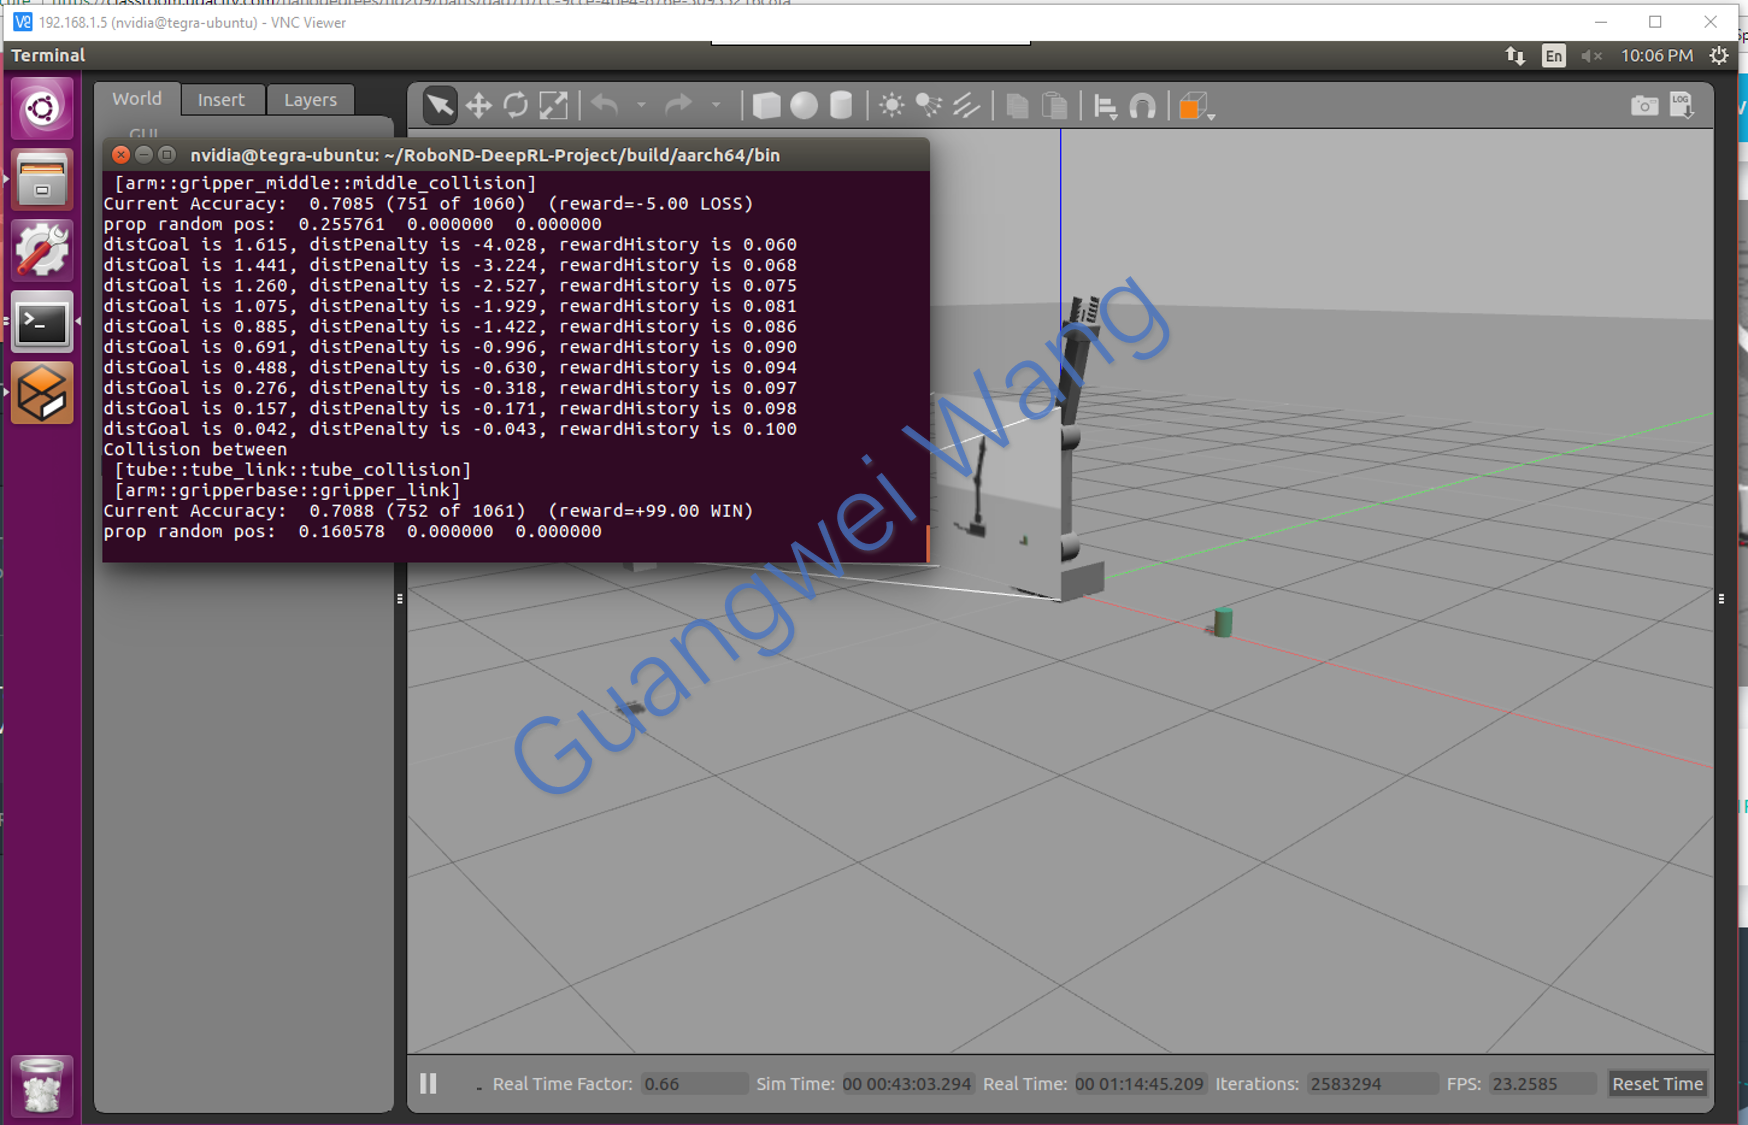
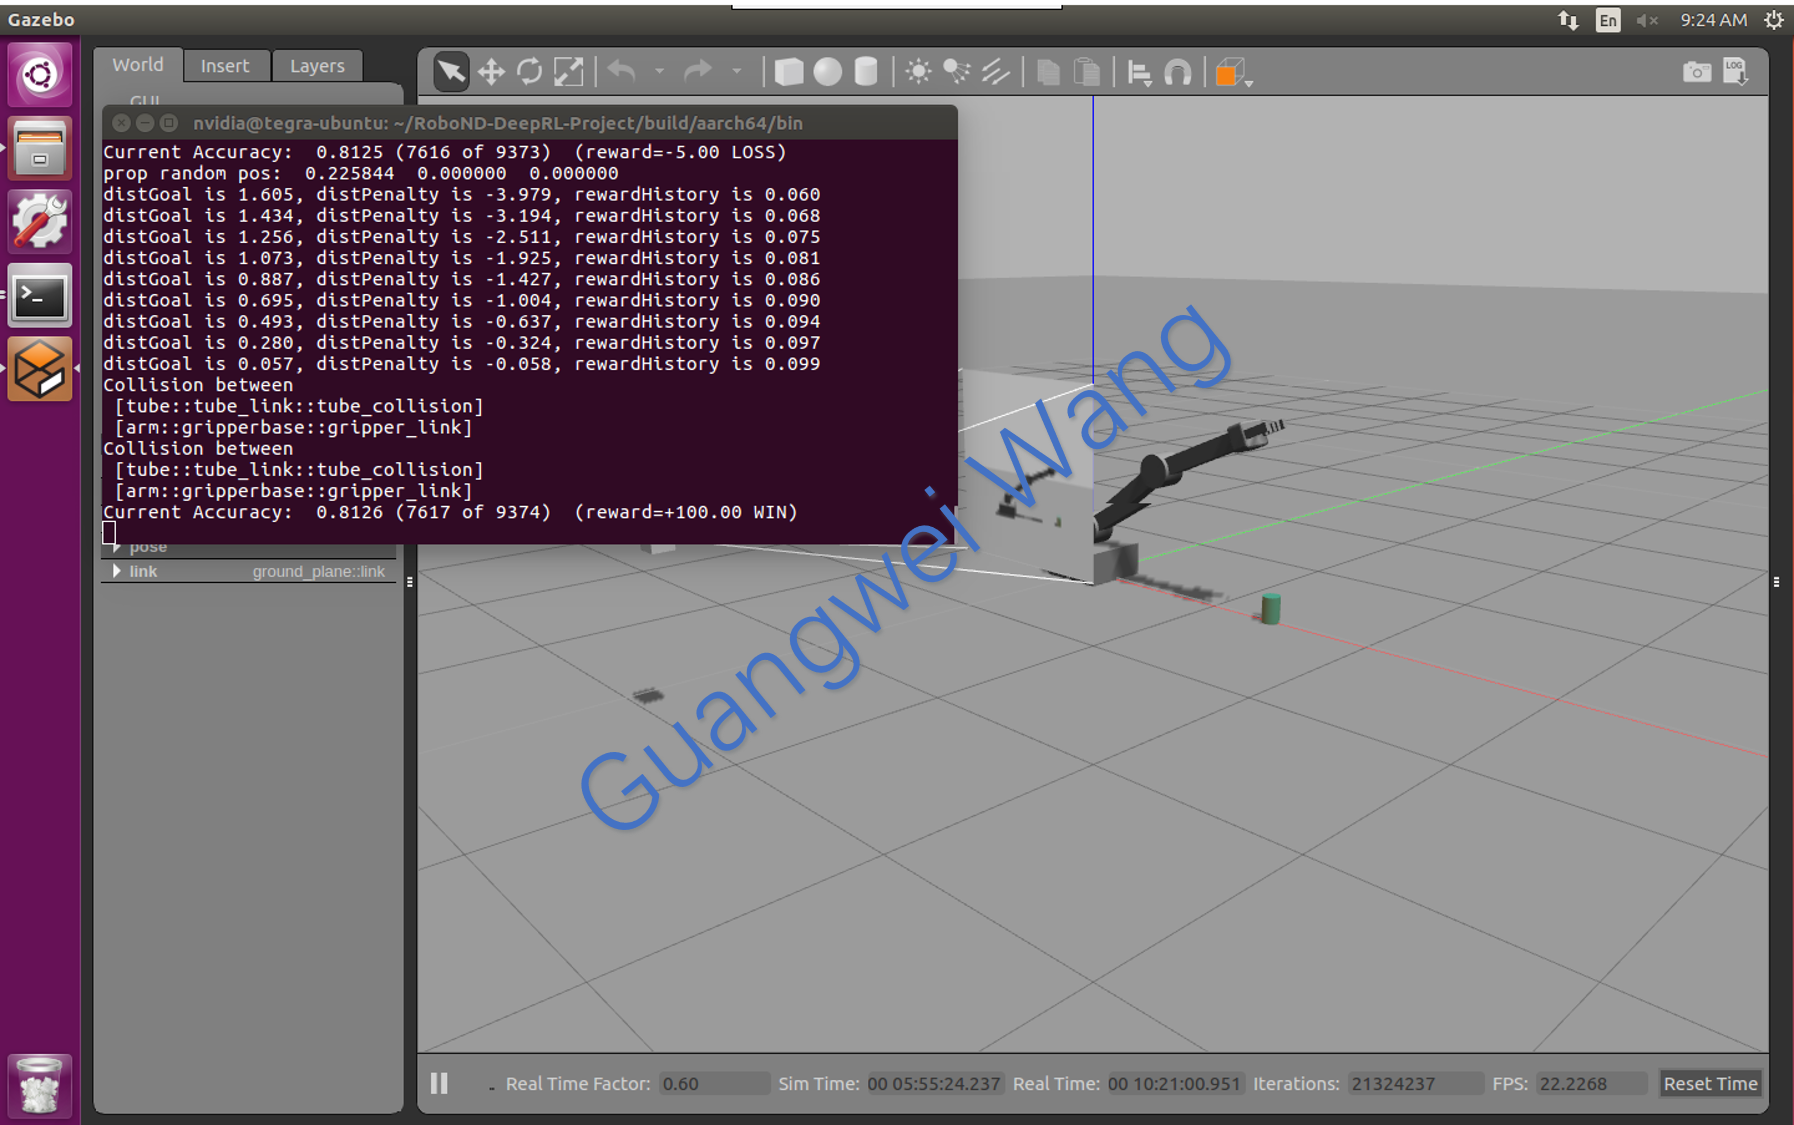
feat: achieve 80% for challenge 1

diff --git a/gazebo/ArmPlugin.cpp b/gazebo/ArmPlugin.cpp
@@ -27,8 +27,8 @@
 #define ALLOW_RANDOM true
 #define DEBUG_DQN false
 #define GAMMA 0.9f
-#define EPS_START 0.99f
-#define EPS_END 0.01f
+#define EPS_START 0.9f
+#define EPS_END 0.05f
 #define EPS_DECAY 200
 
 // TODO - Tune the following hyperparameters

diff --git a/README.md b/README.md
@@ -4,7 +4,7 @@
 
 <https://youtu.be/pjYxtJ0pTRY>
 
-![alt text][task2_gif]
+![alt text][challenge1_gif]
 
 This project is based on the Nvidia open source project "jetson-reinforcement" developed by [Dustin Franklin](https://github.com/dusty-nv). The goal of the project is to create a DQN agent and define reward functions to teach a robotic arm to carry out two primary objectives:
 
@@ -16,6 +16,7 @@ This project is based on the Nvidia open source project "jetson-reinforcement" d
 [task1]:./imgs/result1.png
 [task2]:./imgs/result2.png
 [task2_gif]:./imgs/result2.gif
+[challenge1_gif]:./imgs/challenge1.gif
 
 ## Building from Source (Nvidia Jetson TX2)
 
